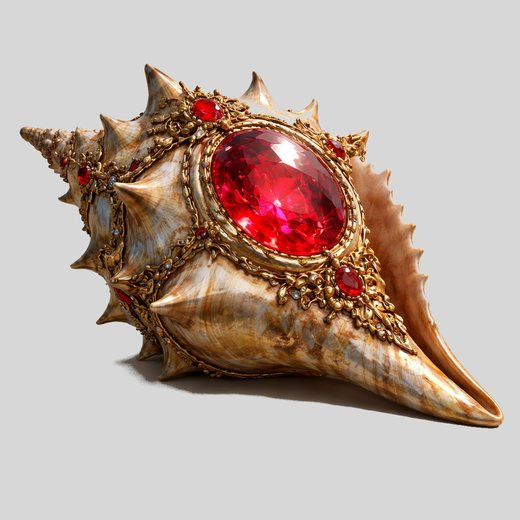
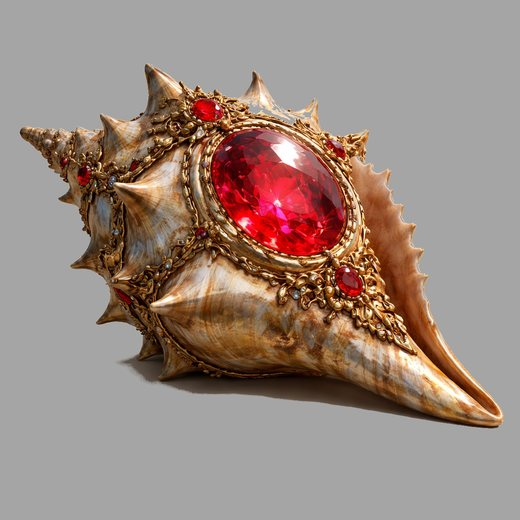
Fond gris plus sombre

diff --git a/journal-arc-1.html b/journal-arc-1.html
@@ -25,7 +25,7 @@
 <p class="arc-date">Automne 1002 CR</p><figure class="inline wide"><a href="img/inline-silenna.jpg?v=5eb2e386"><img src="img/inline-silenna.jpg?v=5eb2e386" alt="Silenna, la sorcière rouge" title="Silenna, la sorcière rouge" loading="lazy"></a><figcaption>Silenna, la sorcière rouge</figcaption></figure><p>Tout commence à <a class="auto" href="carte-bourg-preux.html">Bourg-Preux</a>. <a class="auto" href="heros-zolbrour.html">Zolbrour</a>, <a class="auto" href="heros-aldaron.html">Aldaron</a> et <a class="auto" href="heros-azog.html">Azog</a> rencontrent la sorcière rouge <a class="auto" href="pnj-silenna.html">Silenna</a>, qui les aide à terrasser une strige dans les quartiers Sud. Peu après, <a class="auto" href="heros-zolbrour.html">Zolbrour</a> quitte le groupe pour poursuivre d'autres chimères. <a class="auto" href="pnj-silenna.html">Silenna</a>, elle, vole la Conque de Khêl dans le <a class="auto" href="lieux-bp-temple-deesse-douce.html">temple de la Déesse Douce</a>. Cette conque avait servi à l'archonte <a class="auto" href="pnj-cloaphiles.html">Cloaphilès</a> pour ranimer une armée de morts, lors de la bataille de <a class="auto" href="carte-chrysophee.html">Chrysophée</a>.</p>
 <p>À l'automne 1002 CR, <a class="auto" href="heros-azog.html">Azog</a> et <a class="auto" href="heros-aldaron.html">Aldaron</a> se font un nom en ville. Pendant la fête du Bain de la Déesse, <a class="auto" href="pnj-spada-rapazzoni.html">Spada Rapazzoni</a>, fils du sénateur <a class="auto" href="pnj-guido-rapazzoni.html">Guido Rapazzoni</a> de <a class="auto" href="lieux-ciudalia.html">Ciudalia</a>, est enlevé par le maître-espion <a class="auto" href="pnj-rosso-dagarella.html">Rosso Dagarella</a> pour le compte du parti belliciste. Poursuivi par les héros et par le guet, <a class="auto" href="pnj-rosso-dagarella.html">Rosso Dagarella</a> se cache avec <a class="auto" href="pnj-spada-rapazzoni.html">Spada</a> dans une vinerie, où a lieu un combat épique. <a class="auto" href="pnj-spada-rapazzoni.html">Spada</a> est délivré, mais Rosso s'enfuit. En remerciement, <a class="auto" href="pnj-spada-rapazzoni.html">Spada</a> remet aux héros une lettre de recommandation auprès de son père.</p>
 <p>Puis, à la fin de l'automne, le Bailli <a class="auto" href="pnj-papelin.html">Grugeot Papelin</a> leur demande d'enquêter sur des brigands payés en dirhems de <a class="auto" href="lieux-ressine.html">Ressine</a> pour attaquer les marchands ciudaliens. Les héros tuent le corsaire <a class="auto" href="pnj-urion-bravache.html">Urion Bravache</a> et ses Écorcheurs, le brigand <a class="auto" href="pnj-chicot.html">Chicot l'Ébréché</a> et ses tire-laine, puis les rats-garous <a class="auto" href="pnj-carognet.html">Carognet</a> et <a class="auto" href="pnj-musard.html">Musard</a>. Grâce à eux, le guet arrête le flibustier <a class="auto" href="pnj-borel.html">Borel l'Écumeur</a>, qui est enfermé dans la prison de <a class="auto" href="carte-bourg-preux.html">Bourg-Preux</a>. La piste remonte jusqu'au <a class="auto" href="pnj-brancovan.html">Voïvode Brancovan</a> de <a class="auto" href="lieux-rourika.html">Rourika</a>.</p>
-<p>Les héros découvrent alors que <a class="auto" href="pnj-brancovan.html">Brancovan</a> a servi d'intermédiaire dans le vol de la Conque, et que le commanditaire est l'archonte <a class="auto" href="pnj-cloaphiles.html">Cloaphilès</a>. La Conque est retrouvée et rendue au <a class="auto" href="lieux-bp-temple-deesse-douce.html">temple de la Déesse Douce</a>. Mais son plus gros rubis a été retiré. <a class="badge" href="quetes-gemmes-wayland.html">⚑ Les quatre gemmes de Wayland</a></p><div class="strip"><figure class="inline"><a href="img/inline-conque.jpg?v=afc272a0"><img src="img/thumb-inline-conque.jpg?v=5c4cca44" alt="La Conque de Khêl" title="La Conque de Khêl" loading="lazy"></a><figcaption>La Conque de Khêl</figcaption></figure></div>
+<p>Les héros découvrent alors que <a class="auto" href="pnj-brancovan.html">Brancovan</a> a servi d'intermédiaire dans le vol de la Conque, et que le commanditaire est l'archonte <a class="auto" href="pnj-cloaphiles.html">Cloaphilès</a>. La Conque est retrouvée et rendue au <a class="auto" href="lieux-bp-temple-deesse-douce.html">temple de la Déesse Douce</a>. Mais son plus gros rubis a été retiré. <a class="badge" href="quetes-gemmes-wayland.html">⚑ Les quatre gemmes de Wayland</a></p><div class="strip"><figure class="inline"><a href="img/inline-conque.jpg?v=4ab93c77"><img src="img/thumb-inline-conque.jpg?v=ea101542" alt="La Conque de Khêl" title="La Conque de Khêl" loading="lazy"></a><figcaption>La Conque de Khêl</figcaption></figure></div>
 <nav class="prev-next"><a href="journal.html">← Journal</a><span></span><a href="journal-arc-2.html">Arc 2 : L&#x27;archonte Cloaphilès →</a></nav>
 </main>
 </body>

diff --git a/chronologie.html b/chronologie.html
@@ -82,7 +82,7 @@
 <p>L'ordre suit le résumé des sessions. Dates exactes inconnues, sauf indication.</p>
 <ol>
 <li><div class="tl-text"><a class="auto" href="heros-zolbrour.html">Zolbrour</a>, <a class="auto" href="heros-aldaron.html">Aldaron</a> et <a class="auto" href="heros-azog.html">Azog</a> rencontrent <a class="auto" href="pnj-silenna.html">Silenna</a> et tuent une strige à <a class="auto" href="carte-bourg-preux.html">Bourg-Preux</a>. <a class="auto" href="heros-zolbrour.html">Zolbrour</a> quitte le groupe.</div><div class="tl-side"><a class="tl-thumb" href="img/inline-silenna.jpg?v=5eb2e386" title="Silenna, la sorcière rouge"><img src="img/thumb-inline-silenna.jpg?v=a669fcf1" alt="Silenna, la sorcière rouge" loading="lazy"></a></div></li>
-<li><div class="tl-text"><a class="auto" href="pnj-silenna.html">Silenna</a> vole la Conque de Khêl dans le <a class="auto" href="lieux-bp-temple-deesse-douce.html">temple de la Déesse Douce</a>.</div><div class="tl-side"><a class="tl-thumb" href="img/inline-conque.jpg?v=afc272a0" title="La Conque de Khêl"><img src="img/thumb-inline-conque.jpg?v=5c4cca44" alt="La Conque de Khêl" loading="lazy"></a></div></li>
+<li><div class="tl-text"><a class="auto" href="pnj-silenna.html">Silenna</a> vole la Conque de Khêl dans le <a class="auto" href="lieux-bp-temple-deesse-douce.html">temple de la Déesse Douce</a>.</div><div class="tl-side"><a class="tl-thumb" href="img/inline-conque.jpg?v=4ab93c77" title="La Conque de Khêl"><img src="img/thumb-inline-conque.jpg?v=ea101542" alt="La Conque de Khêl" loading="lazy"></a></div></li>
 <li><div class="tl-text">Automne 1002 CR : « La gloire de la République ». Pendant la fête du Bain de la Déesse, <a class="auto" href="heros-azog.html">Azog</a> et <a class="auto" href="heros-aldaron.html">Aldaron</a> délivrent <a class="auto" href="pnj-spada-rapazzoni.html">Spada Rapazzoni</a>, enlevé par le maître-espion <a class="auto" href="pnj-rosso-dagarella.html">Rosso Dagarella</a> pour le compte du parti belliciste de <a class="auto" href="lieux-ciudalia.html">Ciudalia</a>. <a class="auto" href="pnj-spada-rapazzoni.html">Spada</a> leur donne une lettre de recommandation auprès de son père. Poursuivi par les héros et par le guet, <a class="auto" href="pnj-rosso-dagarella.html">Rosso Dagarella</a> se cache avec <a class="auto" href="pnj-spada-rapazzoni.html">Spada</a> dans une vinerie : combat épique. <a class="auto" href="pnj-rosso-dagarella.html">Rosso Dagarella</a> s'enfuit.</div><div class="tl-side"></div></li>
 <li><div class="tl-text">Fin de l'automne 1002 CR : « La couleur de l'argent ». Pour le Bailli <a class="auto" href="pnj-papelin.html">Grugeot Papelin</a>, <a class="auto" href="heros-azog.html">Azog</a> et <a class="auto" href="heros-aldaron.html">Aldaron</a> enquêtent sur des brigands payés en dirhems de <a class="auto" href="lieux-ressine.html">Ressine</a>, et remontent jusqu'au <a class="auto" href="pnj-brancovan.html">Voïvode Brancovan</a> de <a class="auto" href="lieux-rourika.html">Rourika</a>. Ils tuent <a class="auto" href="pnj-urion-bravache.html">Urion Bravache</a> et ses Écorcheurs, <a class="auto" href="pnj-chicot.html">Chicot l'Ébréché</a> et ses tire-laine, puis les rats-garous <a class="auto" href="pnj-carognet.html">Carognet</a> et <a class="auto" href="pnj-musard.html">Musard</a>. Grâce à eux, le guet arrête <a class="auto" href="pnj-borel.html">Borel l'Écumeur</a> : il est dans la prison de <a class="auto" href="carte-bourg-preux.html">Bourg-Preux</a>.</div><div class="tl-side"><a class="tl-thumb" href="img/inline-voivode-brancovan-de-rourika.jpg?v=98332c4b" title="Le Voïvode Brancovan"><img src="img/thumb-inline-voivode-brancovan-de-rourika.jpg?v=e10887ed" alt="Le Voïvode Brancovan" loading="lazy"></a></div></li>
 <li><div class="tl-text">Les héros découvrent le rôle de <a class="auto" href="pnj-brancovan.html">Brancovan</a> et de <a class="auto" href="pnj-cloaphiles.html">Cloaphilès</a> dans le vol de la Conque. La Conque est rendue, sans son plus gros rubis : <a class="auto" href="pnj-silenna.html">Silenna</a> l'a retiré.</div><div class="tl-side"></div></li>

diff --git a/quetes.html b/quetes.html
@@ -25,7 +25,7 @@
 <ul class=cards>
 <li><a class="with-thumb" href="quetes-objets-voles-basilio.html"><img class="mini" src="img/thumb-inline-basilio-smemorato.jpg?v=d9de9a56" alt="" loading="lazy"><span class="who">Les objets volés par Basilio<small>en cours</small></span></a></li>
 <li><a class="with-thumb" href="quetes-aldryx-coeur-du-monde.html"><img class="mini" src="img/thumb-inline-aldryx.jpg?v=ce13c36e" alt="" loading="lazy"><span class="who">La galerie vers le cœur du monde<small>en cours</small></span></a></li>
-<li><a class="with-thumb" href="quetes-gemmes-wayland.html"><img class="mini" src="img/thumb-inline-conque.jpg?v=5c4cca44" alt="" loading="lazy"><span class="who">Les quatre gemmes de Wayland<small>en cours (2 sur 4)</small></span></a></li>
+<li><a class="with-thumb" href="quetes-gemmes-wayland.html"><img class="mini" src="img/thumb-inline-conque.jpg?v=ea101542" alt="" loading="lazy"><span class="who">Les quatre gemmes de Wayland<small>en cours (2 sur 4)</small></span></a></li>
 </ul>
 <h2>À surveiller</h2>
 <ul class=cards>
@@ -42,7 +42,7 @@
 <li><a class="with-thumb" href="journal.html"><span class="mini date letter">🩸</span><span class="who">La strige de Bourg-Preux<small>strige tuée, Zolbrour quitte le groupe</small></span></a></li>
 <li><a class="with-thumb" href="journal.html"><span class="mini date letter">🗡</span><span class="who">La gloire de la République (Spada Rapazzoni)<small>Spada délivré, lettre de recommandation</small></span></a></li>
 <li><a class="with-thumb" href="journal.html"><span class="mini date letter">💰</span><span class="who">La couleur de l&#x27;argent (brigands payés en dirhems)<small>piste remontée jusqu&#x27;au Voïvode Brancovan</small></span></a></li>
-<li><a class="with-thumb" href="journal.html"><img class="mini" src="img/thumb-inline-conque.jpg?v=5c4cca44" alt="" loading="lazy"><span class="who">La Conque de Khêl et l&#x27;archonte Cloaphilès<small>Conque rendue, Silenna et Cloaphilès tués, rubis et auréole pris</small></span></a></li>
+<li><a class="with-thumb" href="journal.html"><img class="mini" src="img/thumb-inline-conque.jpg?v=ea101542" alt="" loading="lazy"><span class="who">La Conque de Khêl et l&#x27;archonte Cloaphilès<small>Conque rendue, Silenna et Cloaphilès tués, rubis et auréole pris</small></span></a></li>
 <li><a class="with-thumb" href="journal.html"><img class="mini" src="img/thumb-inline-armee-des-morts.jpg?v=eb25ff89" alt="" loading="lazy"><span class="who">Les Landes Grises et l&#x27;armée des morts<small>armée des morts suit Azog, puis reçoit les rites funéraires</small></span></a></li>
 <li><a class="with-thumb" href="journal.html"><img class="mini" src="img/thumb-inline-voivode-brancovan-de-rourika.jpg?v=e10887ed" alt="" loading="lazy"><span class="who">Le Voïvode, les Ouromans et le Kiriadum<small>couronne prise, rituel fait, famine évitée, Brancovan commis de cuisine</small></span></a></li>
 <li><a class="with-thumb" href="quetes-domaine-garches.html"><img class="mini" src="img/thumb-inline-chateau-de-garche.jpg?v=f68170ef" alt="" loading="lazy"><span class="who">Le domaine de Garches et les Landes Grises<small>souveraineté sur les Landes Grises reconnue, château restauré, impôt de 25 % et milice d&#x27;Alistair</small></span></a></li>

diff --git a/index.html b/index.html
@@ -24,7 +24,7 @@
 <figure class="inline banner"><a href="pnj.html#les-heros"><img src="img/inline-les-pj-2.jpg?v=2ba44bd5" alt="Les aventuriers" title="Les aventuriers" loading="lazy"></a><figcaption>Les aventuriers</figcaption></figure>
 <p>Ce site raconte une campagne de <strong>jeu de rôle sur table</strong>, qui se déroule dans le Vieux Royaume, l'univers de fiction créé par l'écrivain <a href="sources.html#l-auteur">Jean-Philippe Jaworski</a>. Elle part des documents de jeu que l'auteur a publiés <a href="https://couroberon.com/site2/tag/vieux-royaume/">sur son site</a> pour ce jeu de rôle. Le reste, ce sont nos propres aventures.</p><ul class="cards home-cards">
 <li><a class="with-thumb" href="journal.html"><img class="mini" src="img/thumb-inline-fete-forraine.jpg?v=49c8def3" alt="" loading="lazy"><span class="who">Journal<small>Le récit de nos sessions, arc par arc</small></span></a></li>
-<li><a class="with-thumb" href="quetes.html"><img class="mini" src="img/thumb-inline-conque.jpg?v=5c4cca44" alt="" loading="lazy"><span class="who">Quêtes<small>Les quêtes ouvertes, à surveiller et terminées</small></span></a></li>
+<li><a class="with-thumb" href="quetes.html"><img class="mini" src="img/thumb-inline-conque.jpg?v=ea101542" alt="" loading="lazy"><span class="who">Quêtes<small>Les quêtes ouvertes, à surveiller et terminées</small></span></a></li>
 <li><a class="with-thumb" href="pnj.html"><img class="mini" src="img/thumb-inline-les-hersos-apres-avoir-recuperer-l-armee-des-morts.jpg?v=fb983128" alt="" loading="lazy"><span class="who">Personnages<small>Les héros et les personnages rencontrés</small></span></a></li>
 <li><a class="with-thumb" href="carte.html"><img class="mini" src="img/thumb-inline-vieux-royaume.jpg?v=c9d7b25b" alt="" loading="lazy"><span class="who">Carte<small>Le Vieux Royaume, ses villes et ses lieux</small></span></a></li>
 <li><a class="with-thumb" href="histoire.html"><img class="mini" src="img/thumb-inline-01-forge-des-gemmes.jpg?v=b6db068b" alt="" loading="lazy"><span class="who">Histoire<small>L&#x27;histoire, les mythes, les religions et les langues</small></span></a></li>
